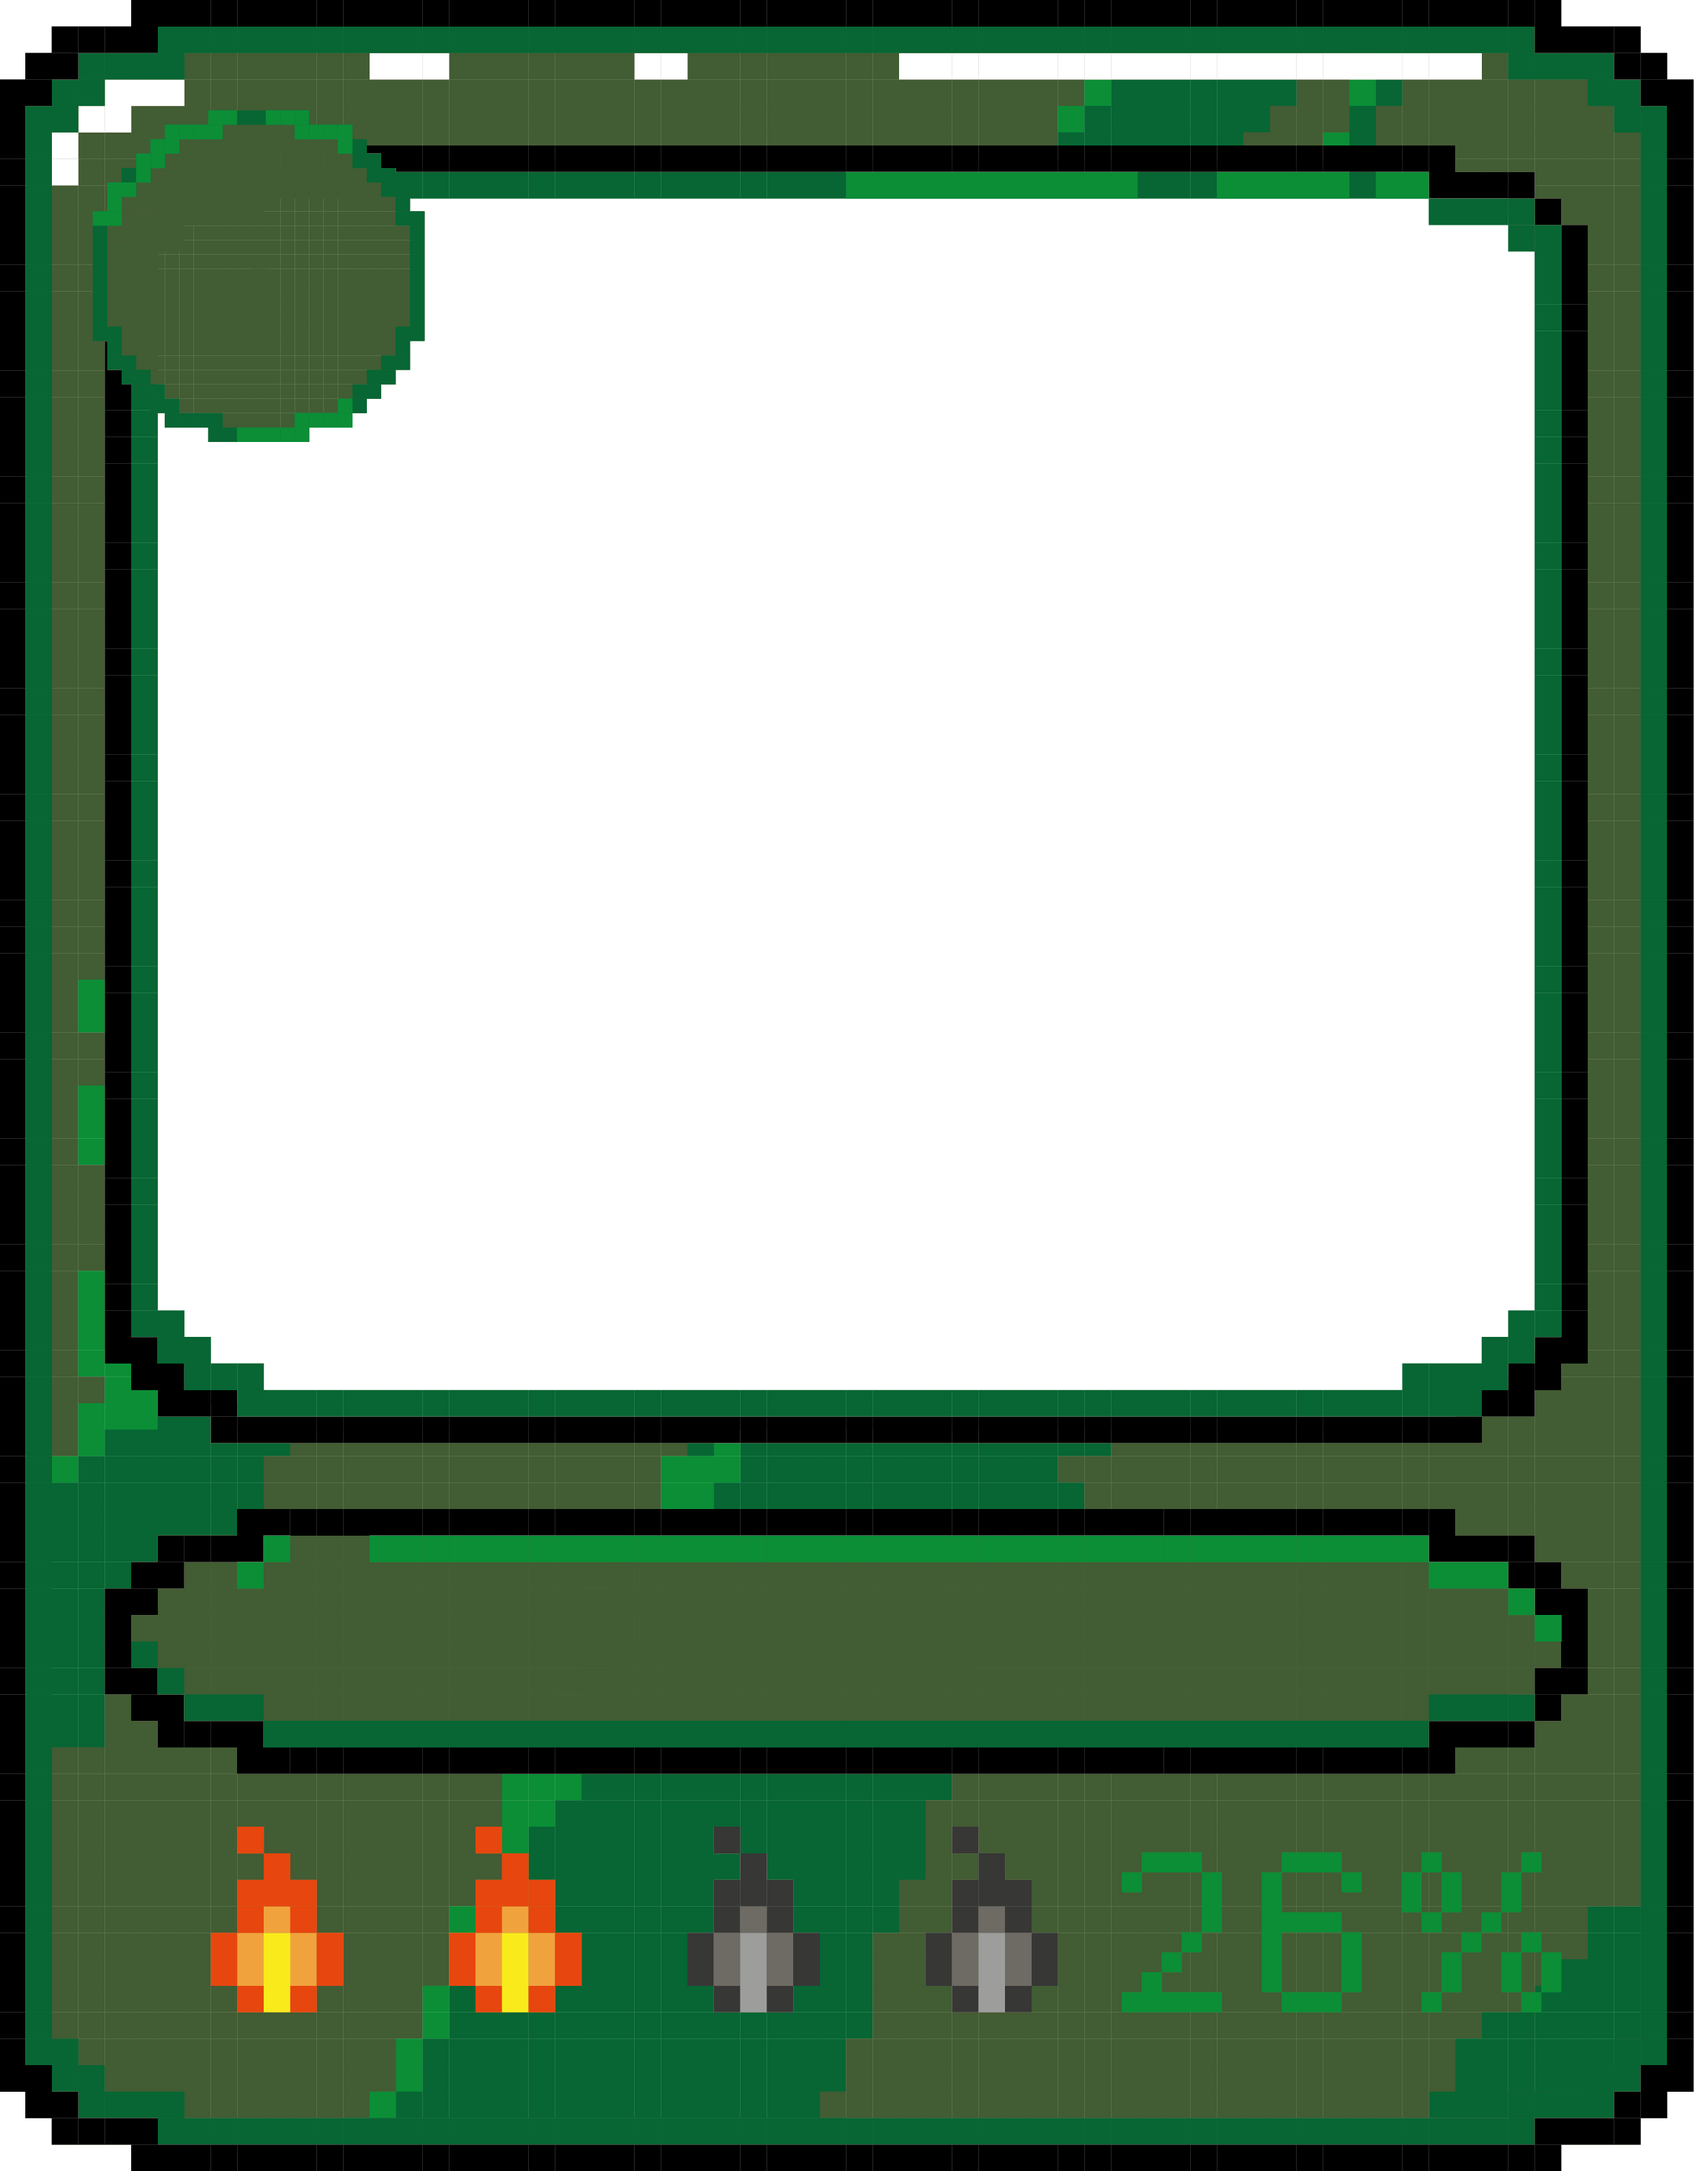
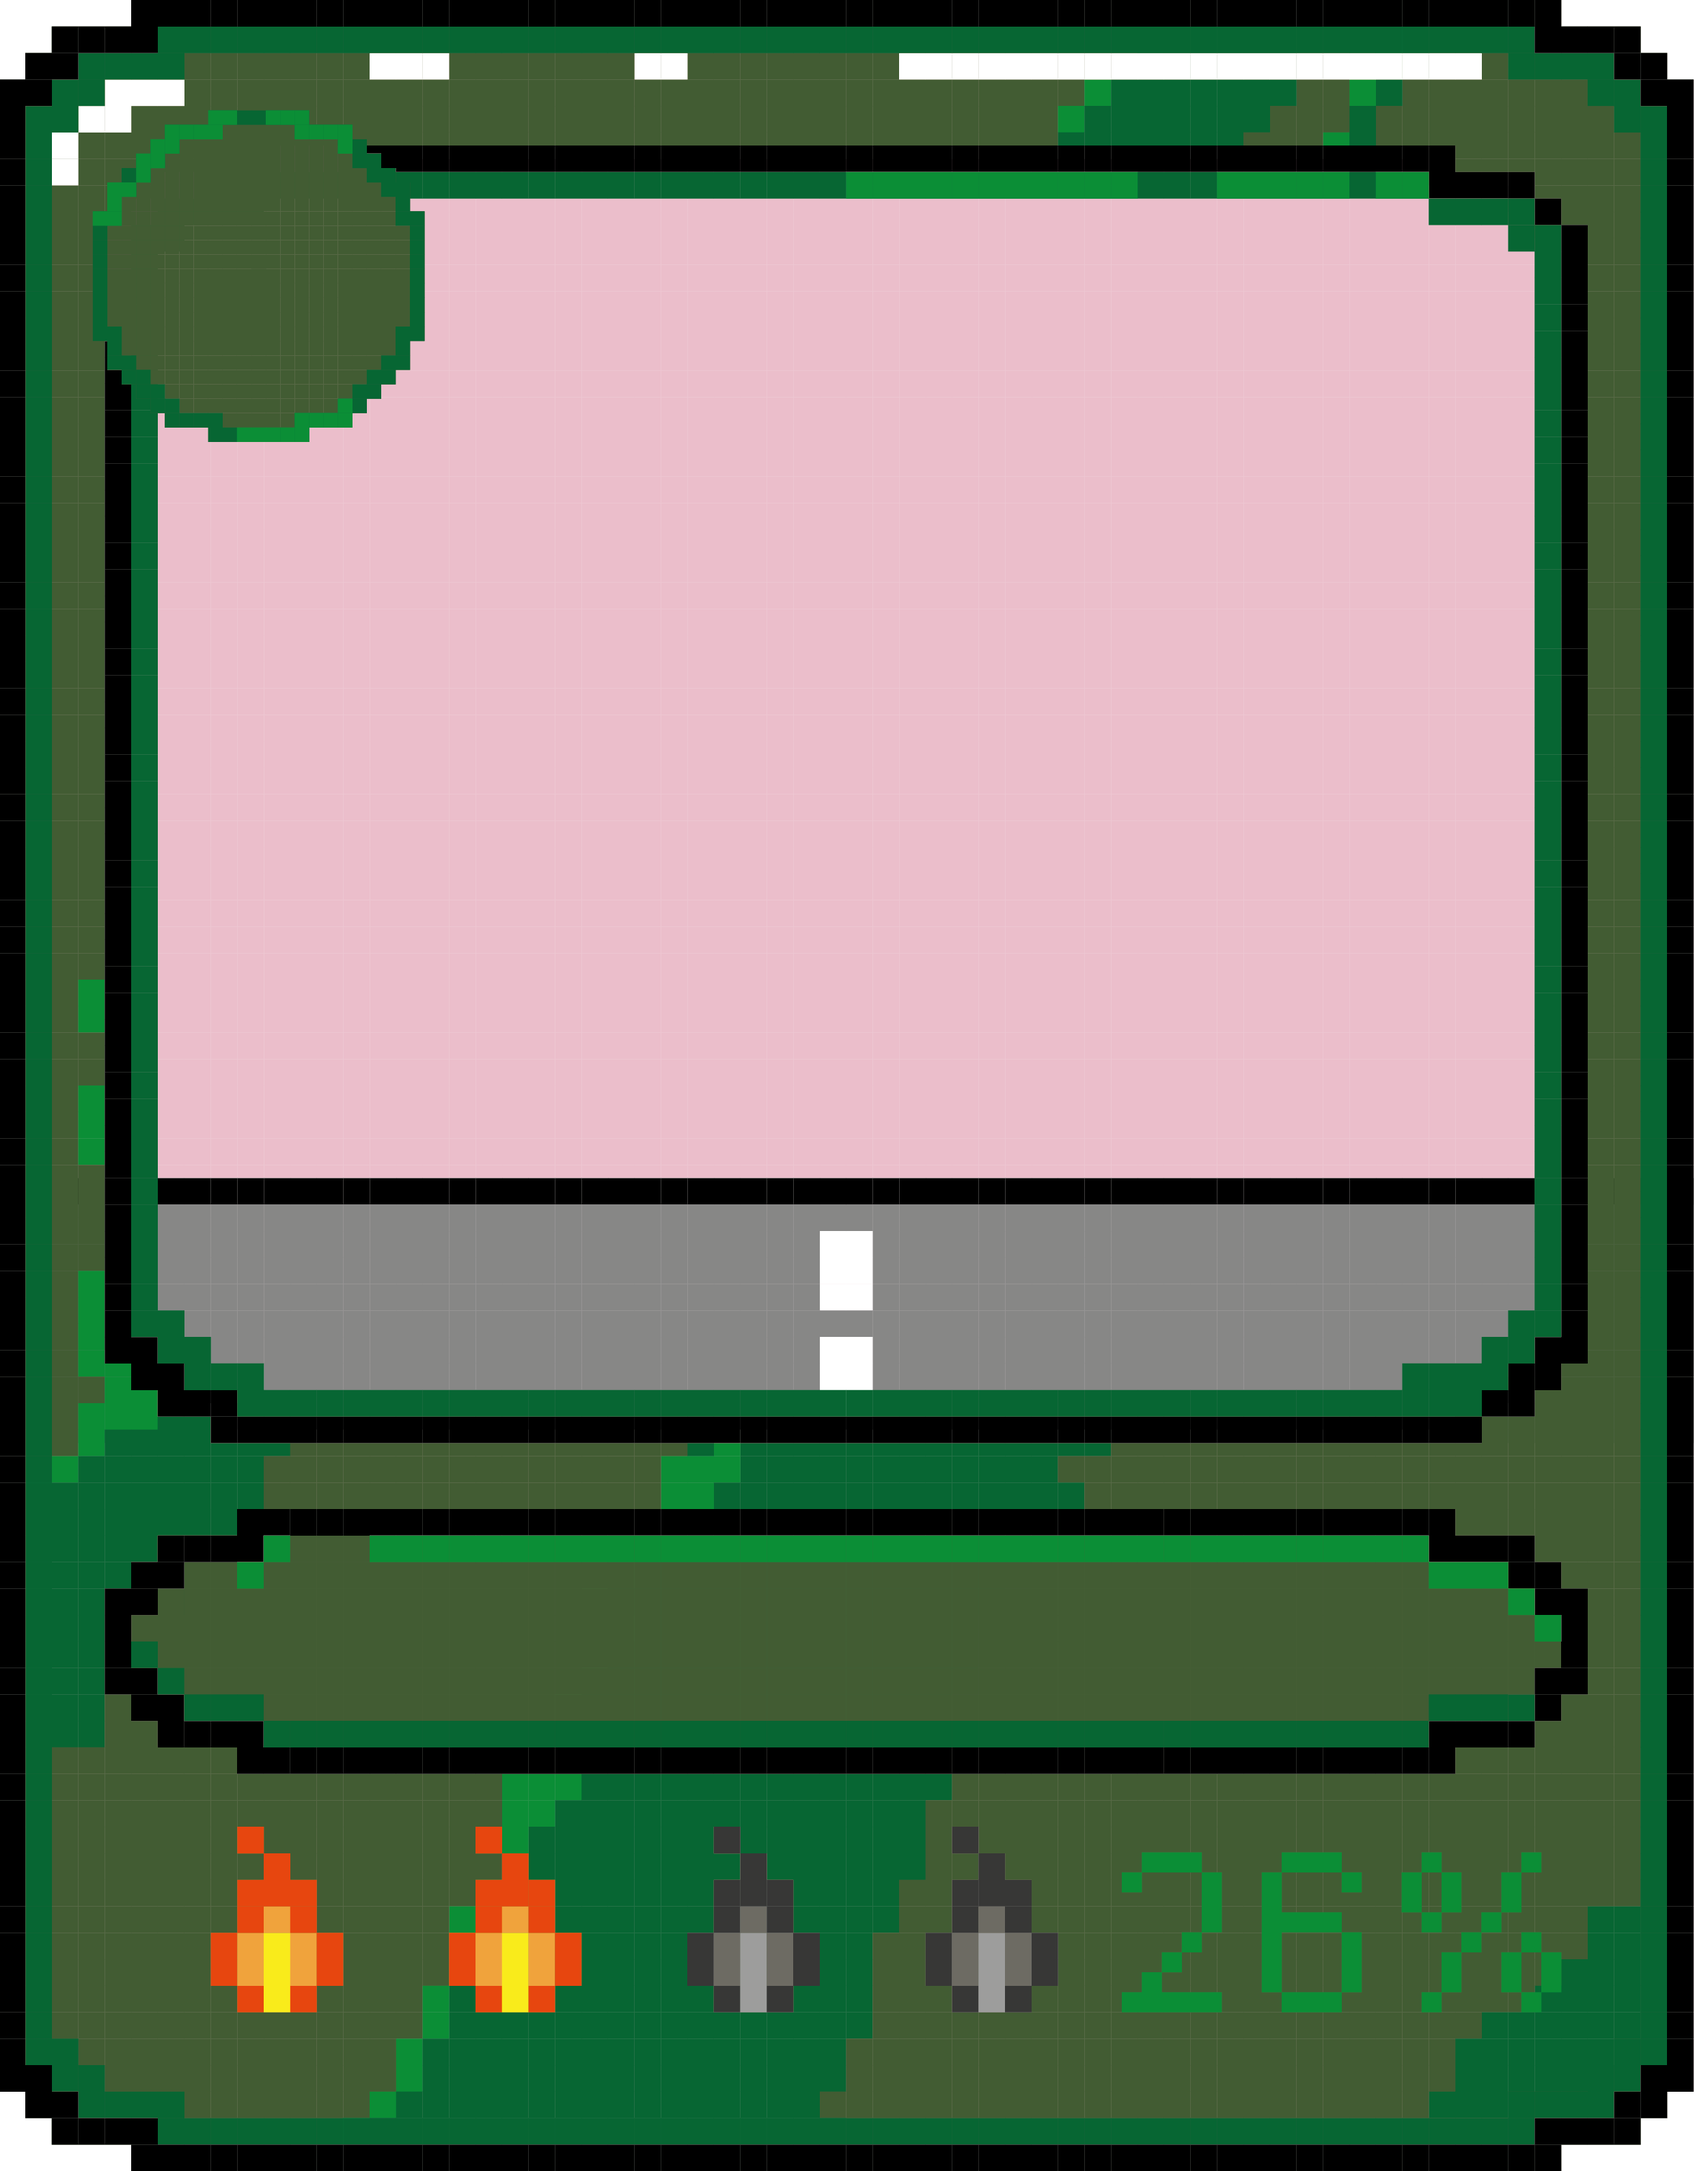
Fix position

diff --git a/src/generators/files/AvatarGenerator.ts b/src/generators/files/AvatarGenerator.ts
@@ -12,7 +12,7 @@ import {
 import { Woka } from "../../guards/WokaGuards";
 import { CropPosition } from "../../guards/AvatarGuard";
 import path from "path";
-import { formatStringWithVariables } from "../../utils/MetadataUtils";
+import { formatStringWithVariables, getAccessorySide } from "../../utils/MetadataUtils";
 import { PNG } from "pngjs";
 
 sharp.cache(false);
@@ -173,11 +173,63 @@ export class AvatarGenerator {
                     .pipe(sharp().composite([{ input: Buffer.from(nameSvg), gravity: "centre" }]))
                     .toBuffer();
 
+                const side = await getAccessorySide(woka.layers["ACCESSORY"].name);
+
+                const baseSidePng = new PNG({
+                    width: 480,
+                    height: 480,
+                    filterType: -1,
+                });
+
+                const topSide = side === "right" ? 250 : side === "left" ? 500 : 0;
+
+                const extractedSide = await sharp(woka.layers["ACCESSORY"].upscaleFile)
+                    .extract({
+                        height: 250,
+                        width: 250,
+                        left: 250,
+                        top: topSide,
+                    })
+                    .toBuffer();
+
+                sharp(extractedSide).toFile(`${woka.edition}-extracted.png`);
+
+                const accessoryImg = await sharp(extractedSide)
+                    .trim()
+                    .resize({
+                        width: 340,
+                        height: 340,
+                        fit: "inside",
+                        kernel: sharp.kernel.nearest,
+                    })
+                    .toBuffer();
+
+                sharp(accessoryImg).toFile(`${woka.edition}.png`);
+
+                const sideImg = await baseSidePng
+                    .pack()
+                    .pipe(
+                        sharp().composite([
+                            {
+                                input: accessoryImg,
+                                gravity: "centre",
+                            },
+                        ])
+                    )
+                    .toBuffer();
+
+                sharp(sideImg).toFile(`${woka.edition}.png`);
+
                 woka.avatar = await sharp(woka.avatar)
                     .composite([
                         {
                             input: nameImg,
                             ...this.config.collection.background.parameters.name.position,
+                        },
+                        {
+                            input: sideImg,
+                            left: 140,
+                            top: 160,
                         },
                     ])
                     .toBuffer();

diff --git a/src/utils/MetadataUtils.ts b/src/utils/MetadataUtils.ts
@@ -92,6 +92,14 @@ export const getAllWordsBindingParts = (): WordBindingPart[] => {
     return wordsVerified;
 };
 
+export async function getAccessorySide(name: string) {
+    const part = getAllWordsBindingParts().find(
+        (currentBinding) => currentBinding.layer === "ACCESSORY" && currentBinding.part === name
+    );
+
+    return part?.side ?? "front";
+}
+
 export function formatStringWithVariables(input: string, config: Config, woka: Woka): string {
     const wordsBinding = getWordsByWoka(woka);
     let formattedInput = input;

diff --git a/src/generators/files/CropGenerator.ts b/src/generators/files/CropGenerator.ts
@@ -14,7 +14,7 @@ export class CropGenerator {
         }
 
         const sharpFile = sharp(woka.upscaleTileset).extract({
-            left: 250,
+            left: 0,
             top: 0,
             width: 250,
             height: 250,

diff --git a/src/guards/MetadataGuards.ts b/src/guards/MetadataGuards.ts
@@ -24,5 +24,6 @@ export const isWordBindingPart = z.object({
     layer: z.string(),
     part: z.string(),
     word: z.string(),
+    side: z.string().optional(),
 });
 export type WordBindingPart = z.infer<typeof isWordBindingPart>;
